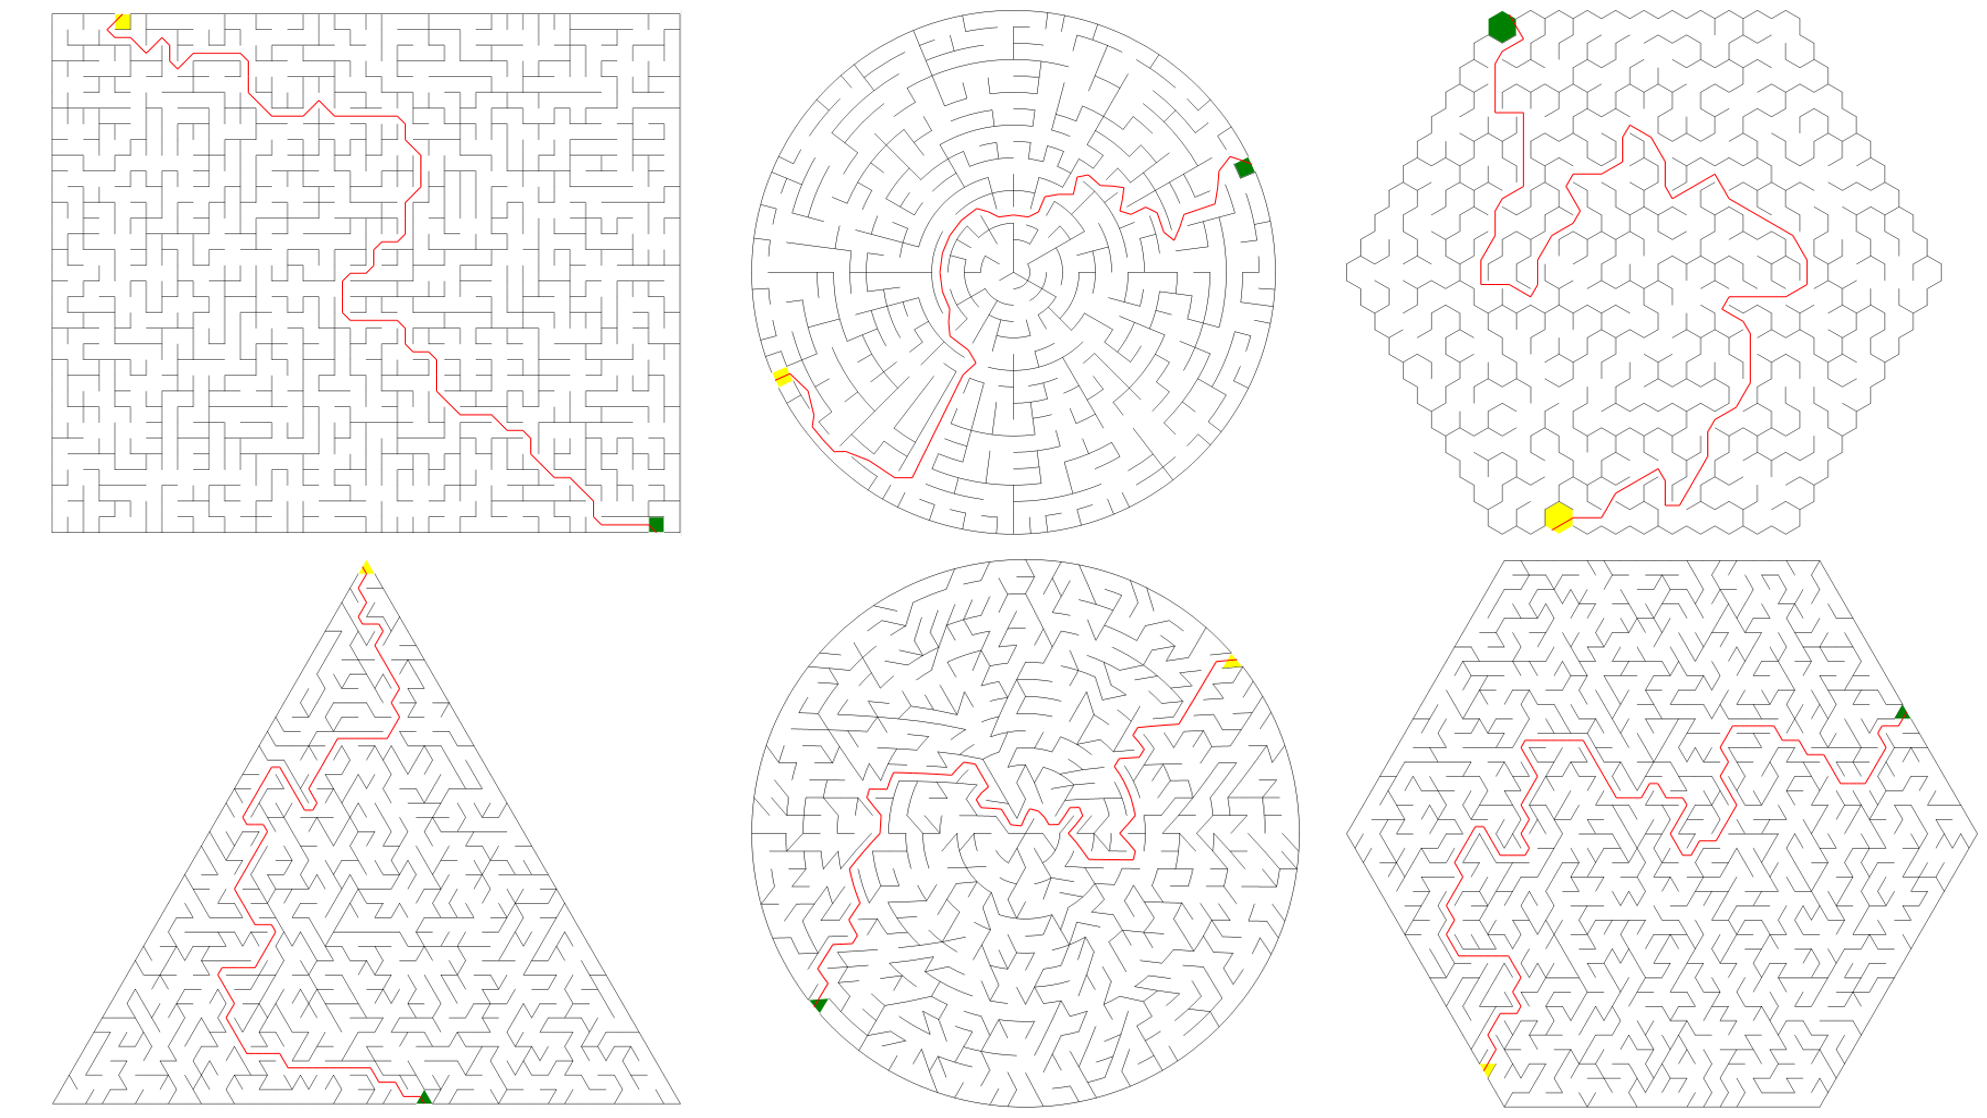
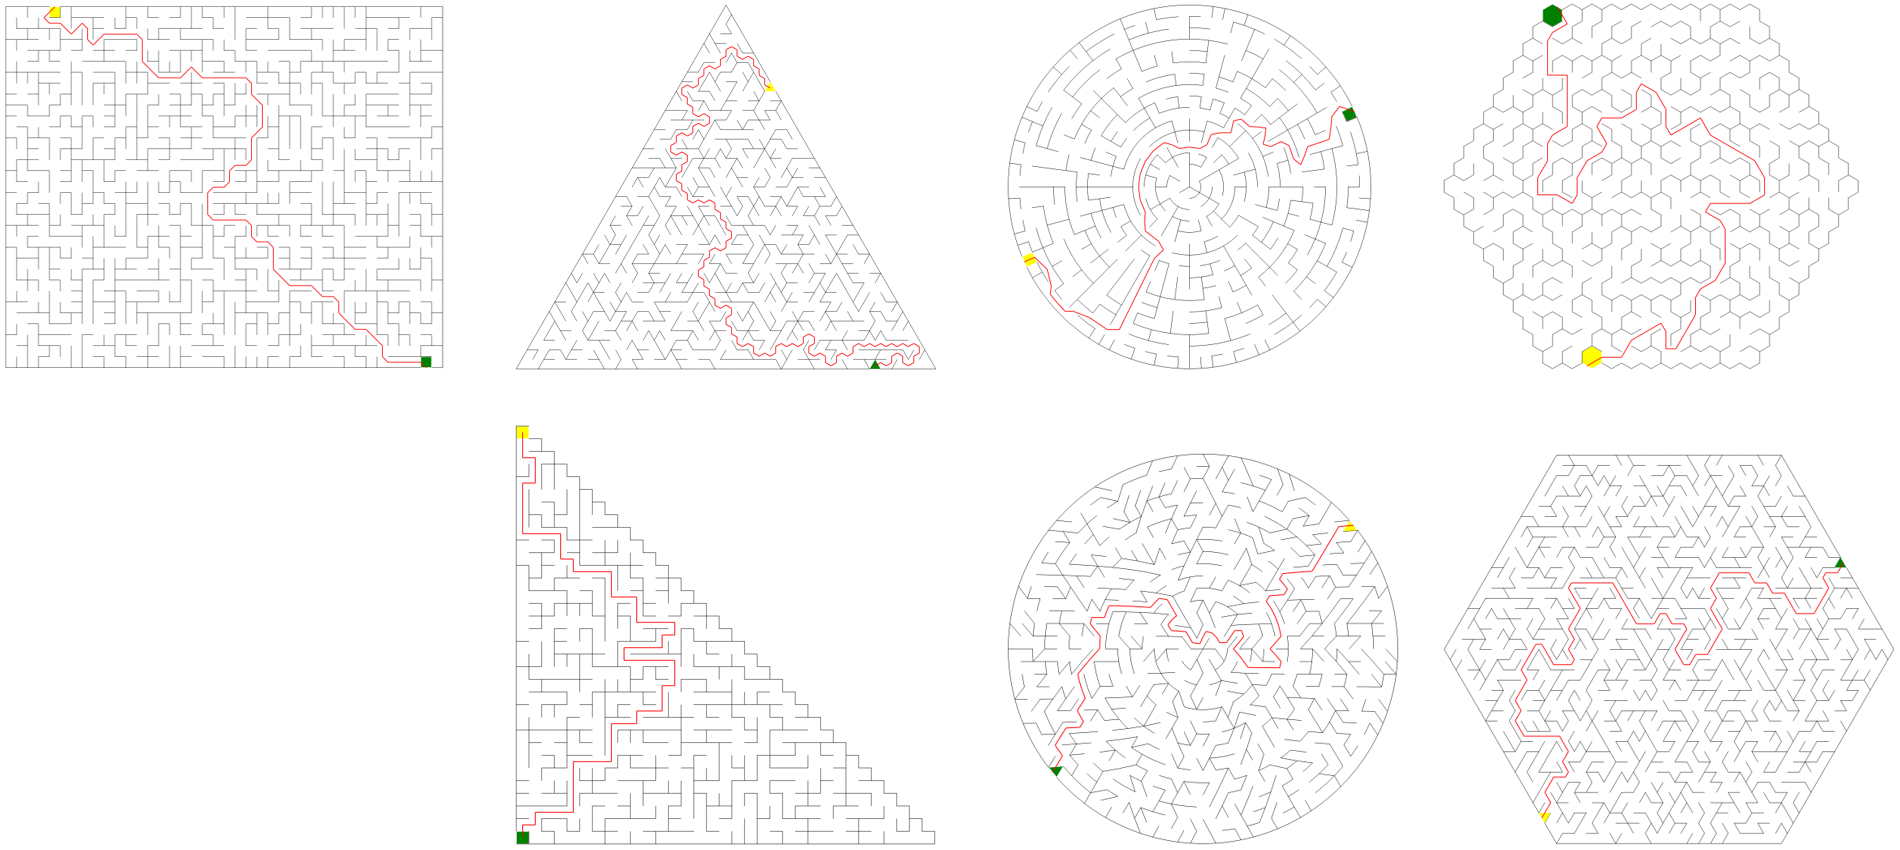
readme

Changed region(s): [[0.0, 0.0, 1.0, 1.0], [0.6211, 0.9788, 0.6521, 1.0], [0.2484, 0.5812, 0.2795, 0.6118]]

diff --git a/README.md b/README.md
@@ -16,6 +16,7 @@
 - [三角形迷宫生成器](./doc/reference/triangular/triangular_maze.md)
 - [六边形迷宫生成器](./doc/reference/hexagonal/hexagonal_maze.md)
 - [圆三角格迷宫生成器](./doc/reference/circularhexagon/circularhexagon_maze.md)
+- [阶梯形迷宫生成器](./doc/reference/stairway/stairway_maze.md)
 
 ![](./doc/images/maze.png)
 
@@ -48,6 +49,7 @@
 - [三角形迷宫出入口生成器](./doc/reference/triangular/triangular_gate.md)
 - [六边形迷宫出入口生成器](./doc/reference/hexagonal/hexagonal_gate.md)
 - [圆三角格迷宫出入口生成器](./doc/reference/circularhexagon/circularhexagon_gate.md)
+- [阶梯形迷宫出入口生成器](./doc/reference/stairway/stairway_gate.md)
 
 ![](./doc/images/gate.png)
 
@@ -61,6 +63,7 @@
 > | 三角形迷宫 | 不同边 |
 > | 六边形迷宫 | 六边形的对边 |
 > | 圆三角格迷宫 | 同直径的两端 |
+> | 阶梯形迷宫 | 入口在直角点，出口在顶点 |
 
 ## 解法生成器
 
